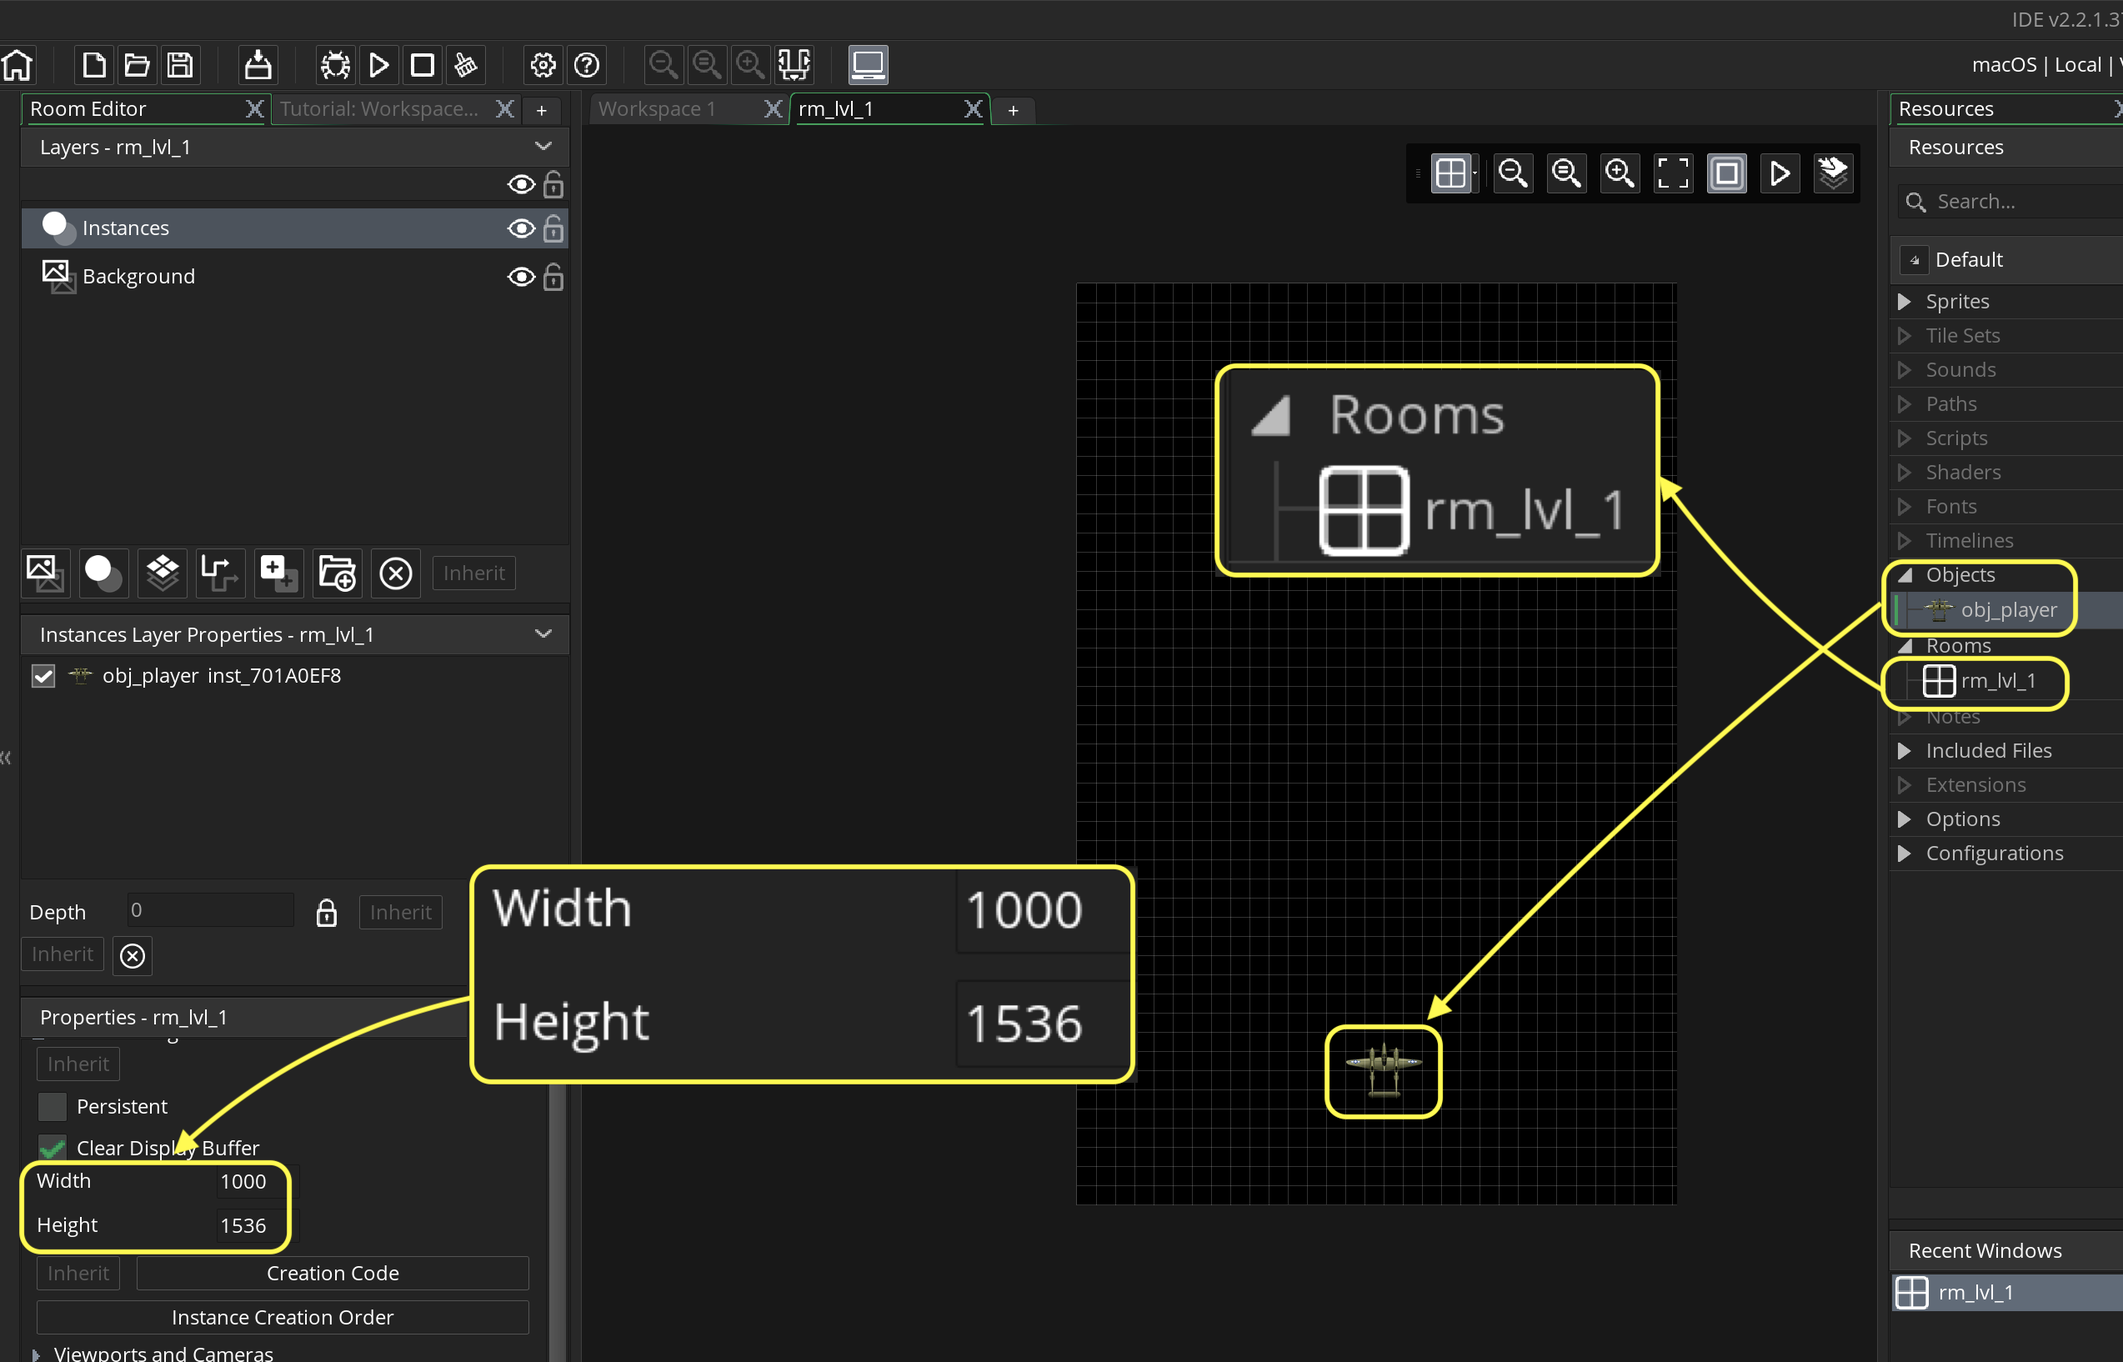
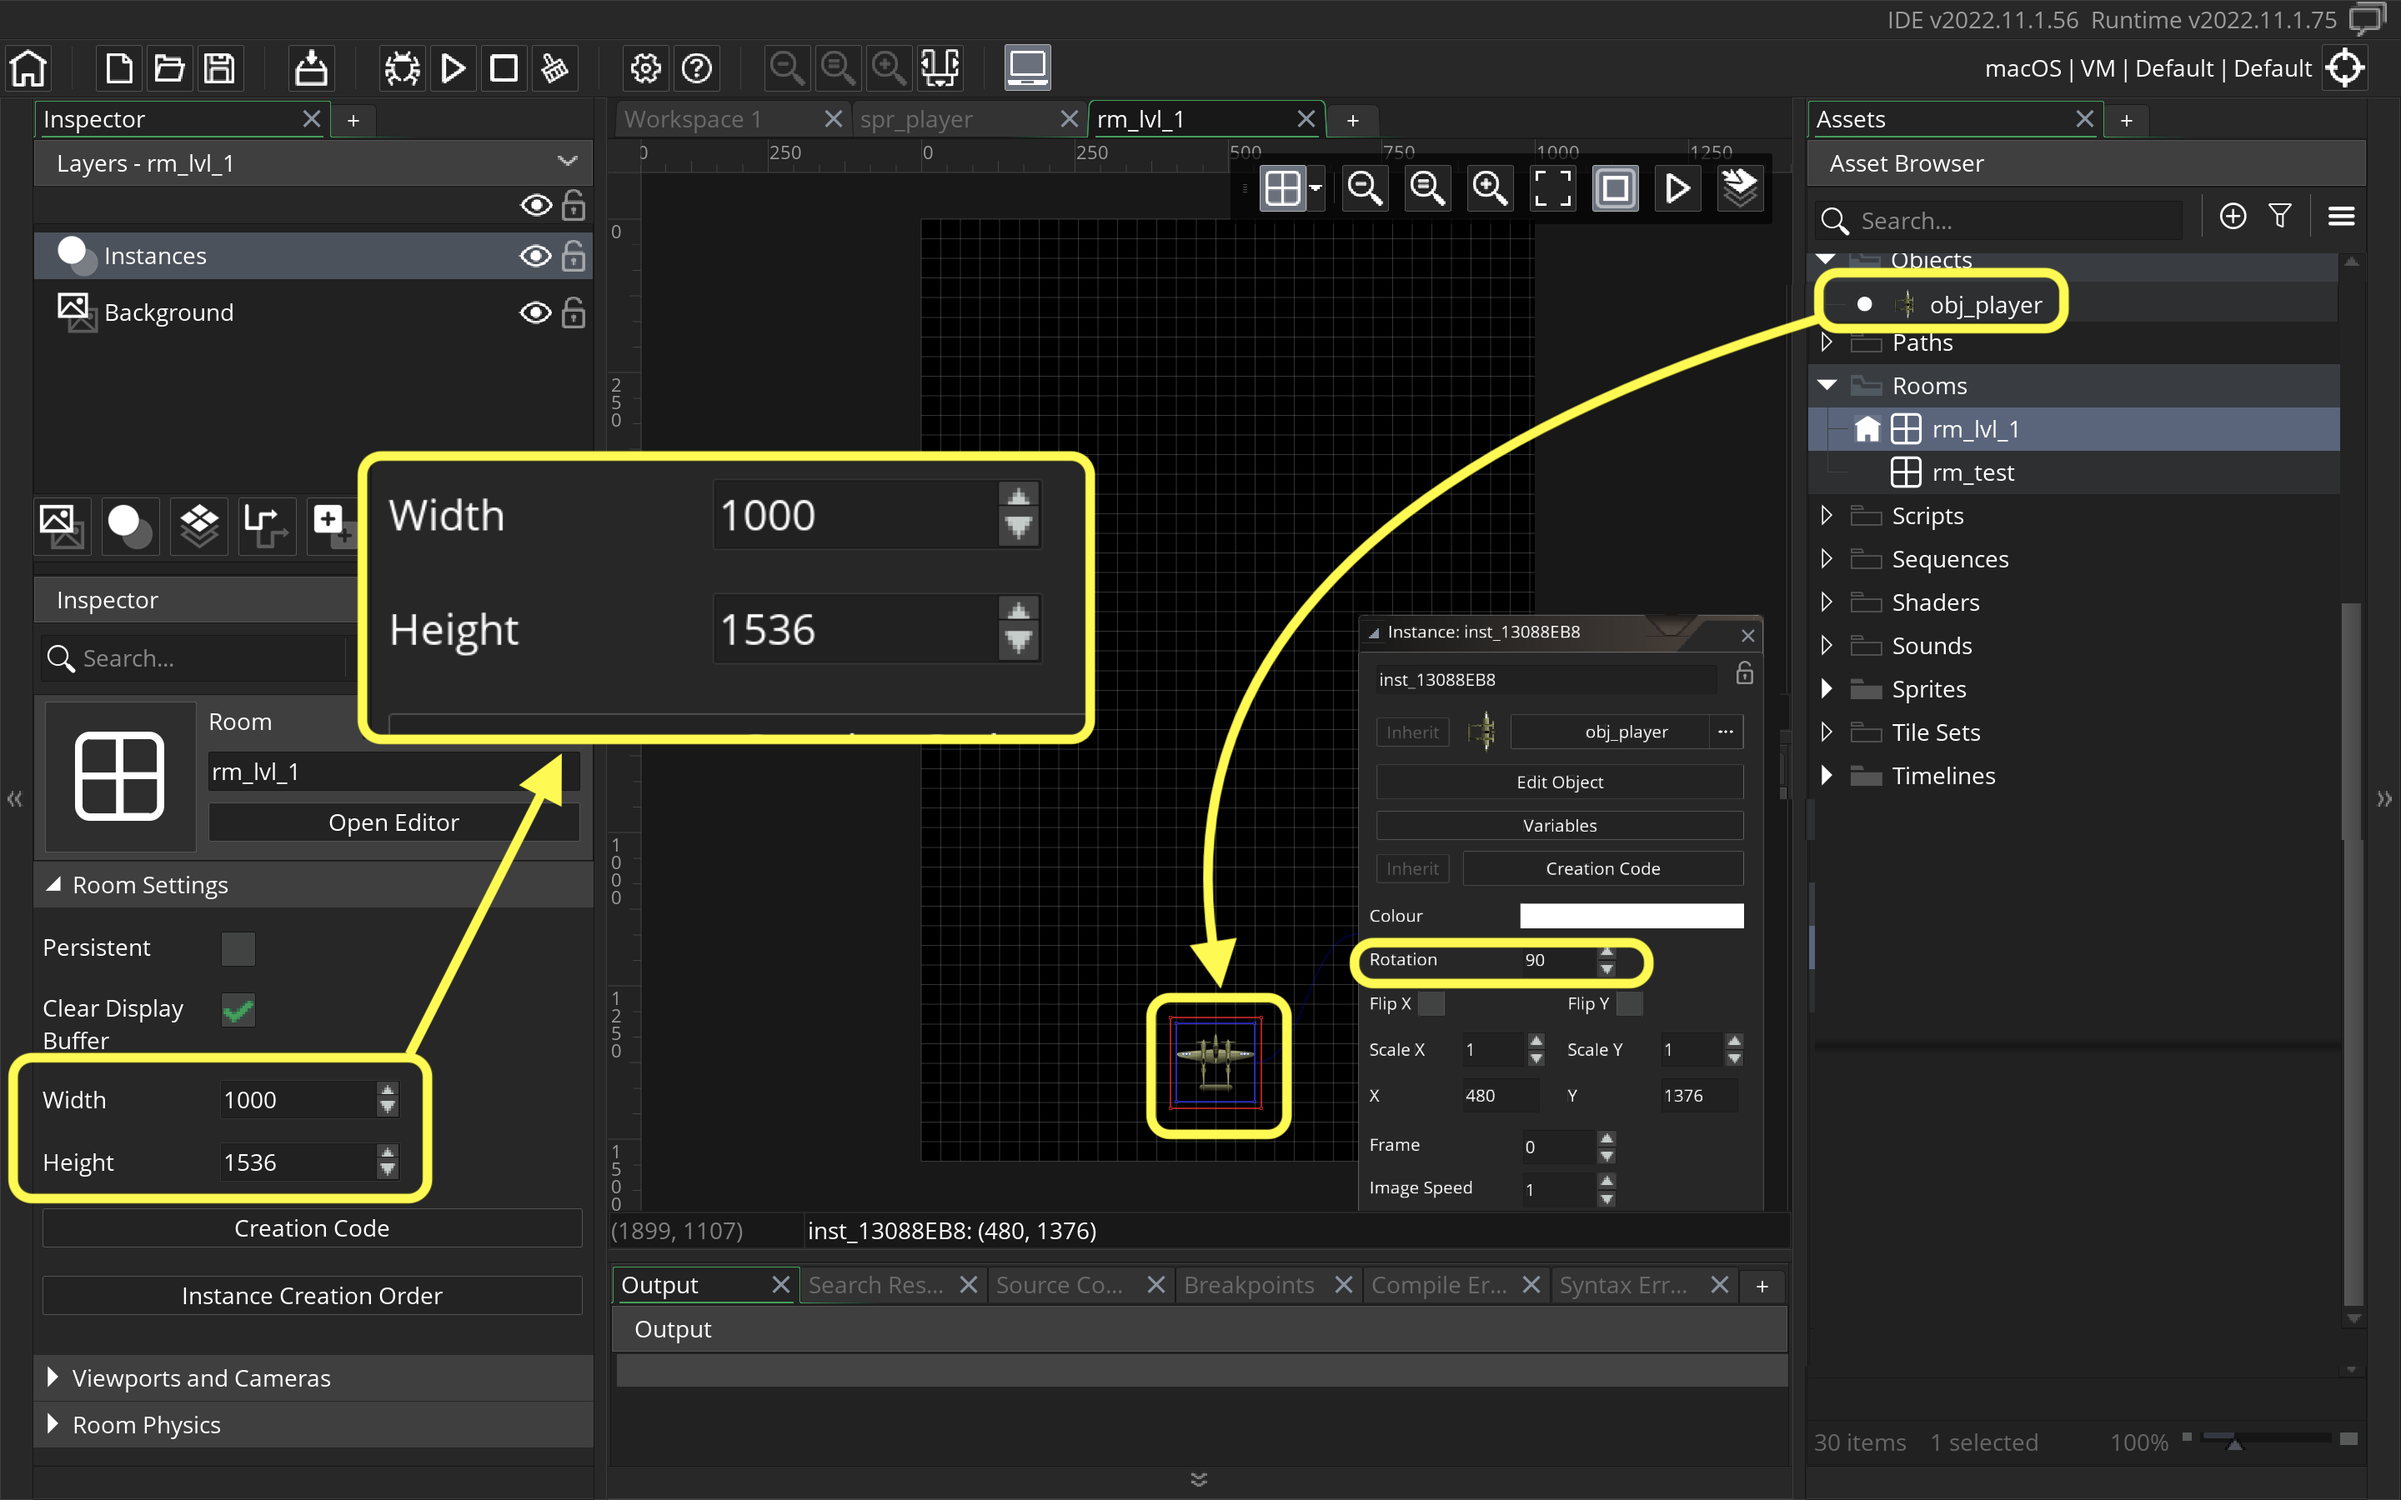
converting to perforce

diff --git a/ship-room/README.md b/ship-room/README.md
@@ -69,7 +69,7 @@ Open up **rm_lvl_1**.
 
 Now if you look at the video the game is in portrait mode. Lets set the room dimensions to: 1000 x 1536. Go to the **Properties** tab in the **Room Editor** and expand it. Set the **Width** to `1000` and **Height** to `1536`.
 
-*Drag and drop* the `obj_player` into to the bottom of the room from the **Resources** menu.
+*Drag and drop* the `obj_player` into to the bottom of the room from the **Resources** menu. Make sure you are on the **Instances** layer.  Double click on the palne and change the **Rotation** to `90` so it points upwareds.
 
 ![alt_teChange name of room to rm_lvl_1 and adjust the size to 1000 by 1536xt](images/ChangeDimensionsOfGameRoom.png)
 
